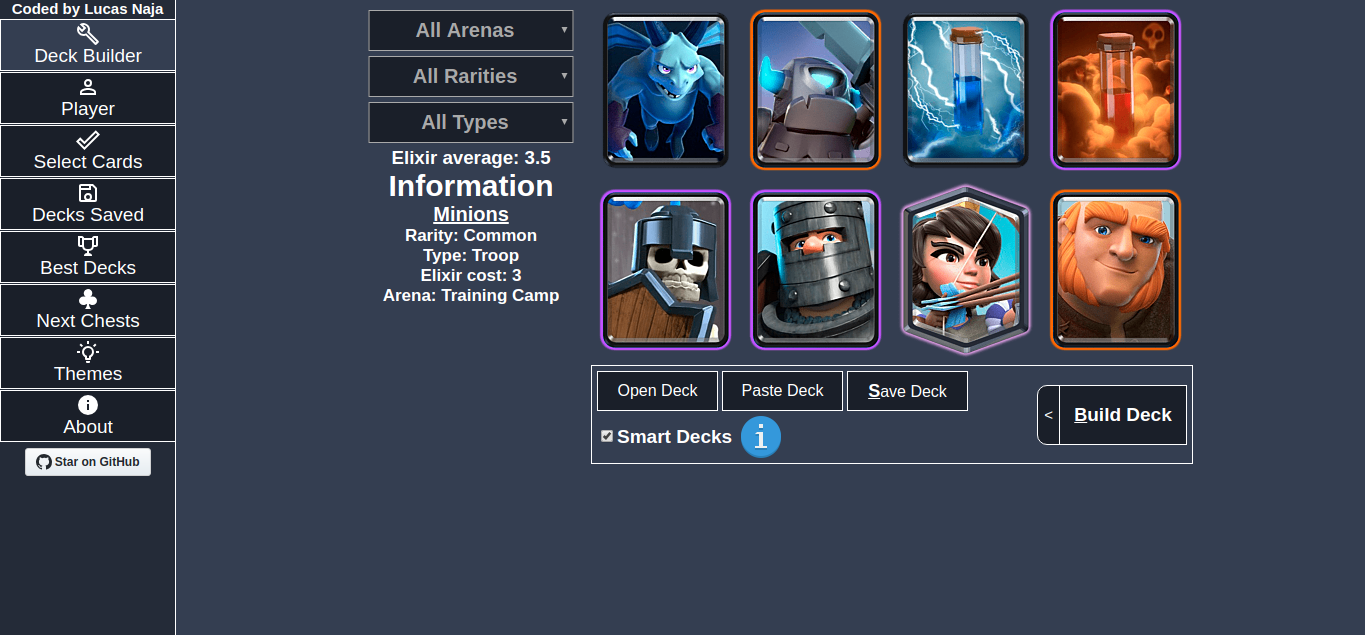
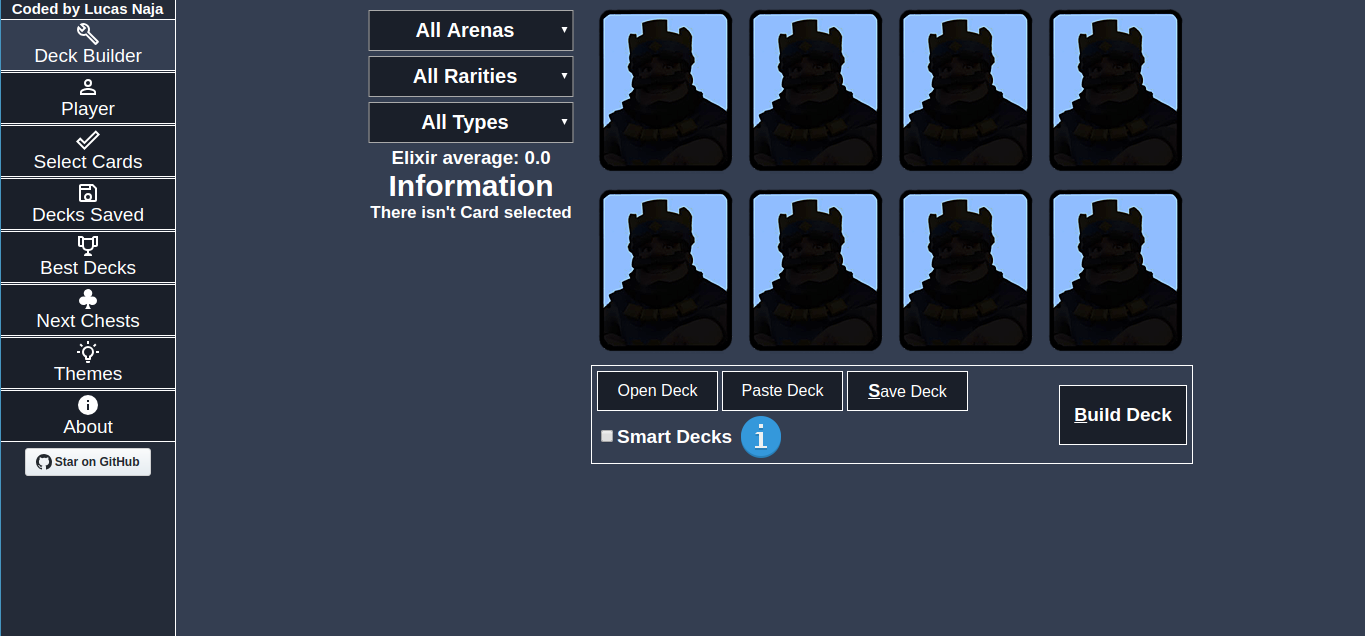
fixes

diff --git a/src/js/scripts.js b/src/js/scripts.js
@@ -25,7 +25,7 @@ const cardsName = [
 		'sparky', 'electro-wizard', 'electro-dragon', 'mirror', 'clone', 'zappies', 'tesla'
 	],
 	cardsInformation = [
-		'No Card selected',
+		'There isn\'t Card selected',
 		'Rarity: Epic<br />Type: Troop', 'Rarity: Epic<br />Type: Troop', 'Rarity: Epic<br />Type: Troop', 'Rarity: Epic<br />Type: Troop', 'Rarity: Rare<br />Type: Troop', 'Rarity: Rare<br />Type: Troop', 'Rarity: Rare<br />Type: Troop', 'Rarity: Rare<br />Type: Spell', 'Rarity: Common<br />Type: Troop', 'Rarity: Common<br />Type: Troop', 'Rarity: Common<br />Type: Troop', 'Rarity: Common<br />Type: Spell',
 		'Rarity: Epic<br />Type: Troop', 'Rarity: Epic<br />Type: Spell', 'Rarity: Rare<br />Type: Troop', 'Rarity: Rare<br />Type: Construction', 'Rarity: Common<br />Type: Troop', 'Rarity: Common<br />Type: Troop',
 		'Rarity: Epic<br />Type: Troop', 'Rarity: Epic<br />Type: Troop', 'Rarity: Rare<br />Type: Troop', 'Rarity: Rare<br />Type: Construction', 'Rarity: Common<br />Type: Troop', 'Rarity: Common<br />Type: Troop',
@@ -824,7 +824,7 @@ function render() {
 			'cardsCode': cardsCode,
 			'screenSize': innerWidth
 		});
-	} else savedDecks.innerHTML = '<h2 class="noneDeck">No Deck saved</h2><button title="Save Decks now!" onclick="closeNav(event); switchContainer(); if (history.state !== 0 && history.state !== null) history.pushState(0, \'changed\')" class="btnCenter">Save Decks now!</button>'
+	} else savedDecks.innerHTML = '<h2 class="noneDeck">There isn\'t Deck saved</h2><button title="Save Decks now!" onclick="closeNav(event); switchContainer(); if (history.state !== 0 && history.state !== null) history.pushState(0, \'changed\')" class="btnCenter">Save Decks now!</button>'
 }
 
 function saveDeck(deck = currentDeck) {
@@ -859,7 +859,7 @@ function deleteAllBest() {
 	if (confirm('Do you wanna remove all best Decks?')) {
 		response = null;
 		html = '<button title="Remove all" class="btnRemoveAll" onclick="deleteAllBest()">Remove all Decks</button><h2 class="elixir"></h2>';
-		bestDecks.innerHTML = '<h2 class="noneDeck">No Deck here</h2>';
+		bestDecks.innerHTML = '<h2 class="noneDeck">There isn\'t Deck here</h2>';
 		document.querySelector('.bestSection .upArrow').style.display = 'none';
 		btnMore.style.display = 'block';
 		btnMore.textContent = 'Show more 10 Decks';
@@ -963,8 +963,8 @@ function login(id = idPlayer.value.trim().replace('#', '')) {
 				<div><img src="./images/cards/${response.currentDeck[3].key}_opt-min.png" alt="${response.currentDeck[3].key}" title="${capitalize(response.currentDeck[3].key)}" onclick="showInfo(${cardsCode.indexOf(response.currentDeck[3].id)})"/></div>
 				<div><img src="./images/cards/${response.currentDeck[4].key}_opt-min.png" alt="${response.currentDeck[4].key}" title="${capitalize(response.currentDeck[4].key)}" onclick="showInfo(${cardsCode.indexOf(response.currentDeck[4].id)})"/></div>
 				<div><img src="./images/cards/${response.currentDeck[5].key}_opt-min.png" alt="${response.currentDeck[5].key}" title="${capitalize(response.currentDeck[5].key)}" onclick="showInfo(${cardsCode.indexOf(response.currentDeck[5].id)})"/></div>
-				<div><img src="./images/cards/${response.currentDeck[6] === undefined ? 'no-card' : response.currentDeck[6].key}_opt-min.png" alt="${response.currentDeck[6] === undefined ? 'No Card' : response.currentDeck[6].key}" title="${response.currentDeck[6] === undefined ? 'No Card' : capitalize(response.currentDeck[6].key)}" onclick="if(${response.currentDeck[6] === undefined}) info.innerText = 'No Card selected'; else showInfo(cardsCode.indexOf(${response.currentDeck[6] === undefined ? 0 : response.currentDeck[7].id}))"/></div>
-				<div><img src="./images/cards/${response.currentDeck[7] === undefined ? 'no-card' : response.currentDeck[7].key}_opt-min.png" alt="${response.currentDeck[7] === undefined ? 'No Card' : response.currentDeck[7].key}" title="${response.currentDeck[7] === undefined ? 'No Card' : capitalize(response.currentDeck[7].key)}" onclick="if(${response.currentDeck[7] === undefined}) info.innerText = 'No Card selected'; else showInfo(cardsCode.indexOf(${response.currentDeck[7] === undefined ? 0 : response.currentDeck[7].id}))"/></div>
+				<div><img src="./images/cards/${response.currentDeck[6] === undefined ? 'no-card' : response.currentDeck[6].key}_opt-min.png" alt="${response.currentDeck[6] === undefined ? 'No Card' : response.currentDeck[6].key}" title="${response.currentDeck[6] === undefined ? 'No Card' : capitalize(response.currentDeck[6].key)}" onclick="if(${response.currentDeck[6] === undefined}) info.innerText = 'There isn\'t Card selected'; else showInfo(cardsCode.indexOf(${response.currentDeck[6] === undefined ? 0 : response.currentDeck[7].id}))"/></div>
+				<div><img src="./images/cards/${response.currentDeck[7] === undefined ? 'no-card' : response.currentDeck[7].key}_opt-min.png" alt="${response.currentDeck[7] === undefined ? 'No Card' : response.currentDeck[7].key}" title="${response.currentDeck[7] === undefined ? 'No Card' : capitalize(response.currentDeck[7].key)}" onclick="if(${response.currentDeck[7] === undefined}) info.innerText = 'There isn\'t Card selected'; else showInfo(cardsCode.indexOf(${response.currentDeck[7] === undefined ? 0 : response.currentDeck[7].id}))"/></div>
 			</section>
 
 			<h1 class="elixir">Elixir average: ${((response.currentDeck[0].elixir + response.currentDeck[1].elixir + response.currentDeck[2].elixir + response.currentDeck[3].elixir + response.currentDeck[4].elixir + response.currentDeck[5].elixir + (response.currentDeck[6] === undefined ? 0 : response.currentDeck[6].elixir) + (response.currentDeck[6] === undefined ? 0 : response.currentDeck[7].elixir)) / 8).toFixed(1)}</h1>
@@ -1175,7 +1175,7 @@ for (let i = 0; i < cards.length; i++) {
 	});
 	cards[i].addEventListener('click', () => {
 		if (currentDeck[i] !== 0) showInfo(currentDeck[i])
-		else info.innerText = 'No Card selected'
+		else info.innerText = 'There isn\'t Card selected'
 	});
 }
 

diff --git a/index.html b/index.html
@@ -125,7 +125,7 @@
 					<section class="infoText">
 						<h3 id="elixirMedio"></h3>
 						<h1>Information</h1>
-						<h2>No Card selected</h2>
+						<h2>There isn't Card selected</h2>
 					</section>
 
 					<section class="dropdowns">
@@ -180,11 +180,11 @@
 
 		<section class="selectSection">
 			<div>
-				<button title="Mark all">Mark all Cards</button>
-				<button title="Unmark all">Unmark all Cards</button>
+				<button title="Select all">Select all Cards</button>
+				<button title="Deselect all">Deselect all Cards</button>
 			</div>
 
-			<input id="searchCard" type="search" placeholder="Type Card name to find them" />
+			<input id="searchCard" type="search" placeholder="Type Card name to find it" />
 
 			<datalist id="cardsName">
 				<!-- Código gerado pelo JS -->
@@ -210,7 +210,7 @@
 		<section class="bestSection">
 			<div title="Loading" class="best-ring"><div></div><div></div><div></div><div></div></div>
 			<section>
-				<h2 class="noneDeck">No Deck here</h2>
+				<h2 class="noneDeck">There isn't Deck here</h2>
 				<!-- Código a ser gerado pelo JS -->
 			</section>
 			<button class="btnCenter" onclick="downDecks()" title="Show more">Show more 10 Decks</button>
@@ -270,7 +270,7 @@
 
 			<h1><strong>Deck Builder</strong> for Clash Royale</h1>
 			<p>Deck Royale is a <strong>Deck Builder</strong> for Clash Royale game that makes easier your friendly and personal battles and much more!</p>
-			<h4>v0.3.7</h4>
+			<h4>v0.3.8</h4>
 		</section>
 
 		<script async src="./src/js/scripts.js"></script>

diff --git a/README.md b/README.md
@@ -29,4 +29,4 @@
   - **[GitHub](https://github.com/LucasNaja "My GitHub")**
   - **[Portfolio](https://lucasnaja.github.io/portfolio/ "My OnLine Portfolio")**
 
-### Current build: **0.3.7**
+### Current build: **0.3.8**
